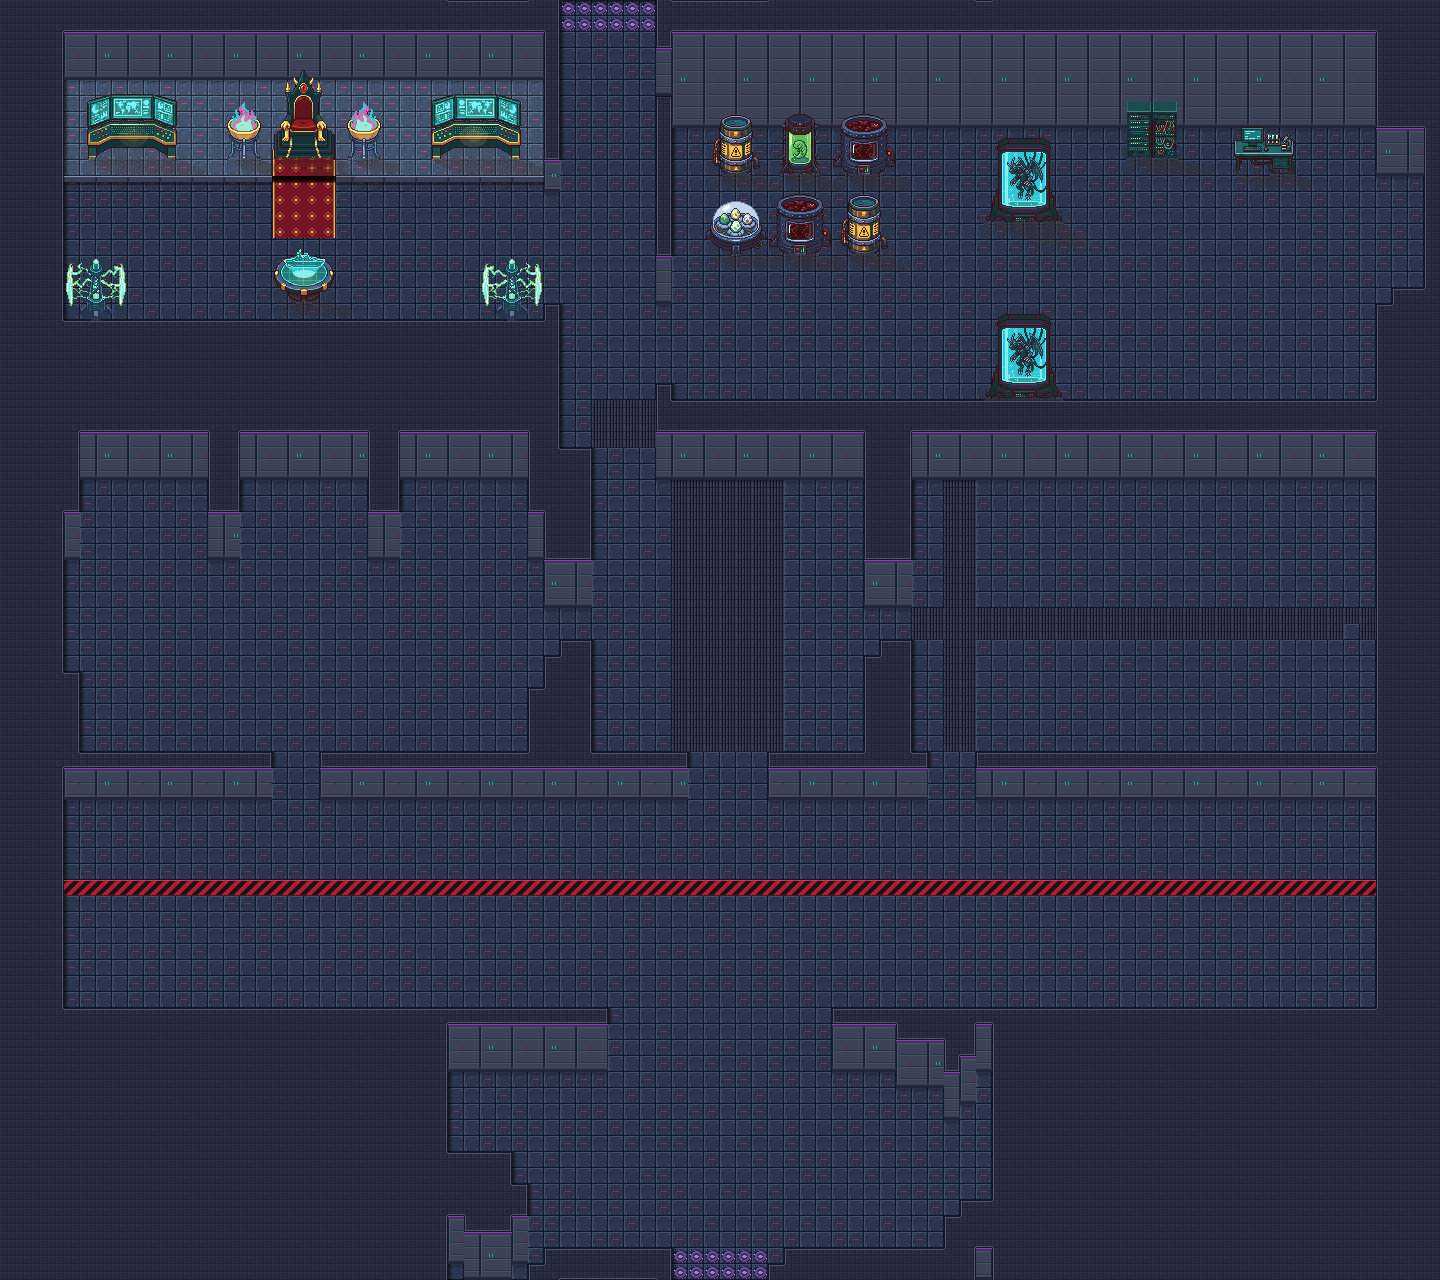
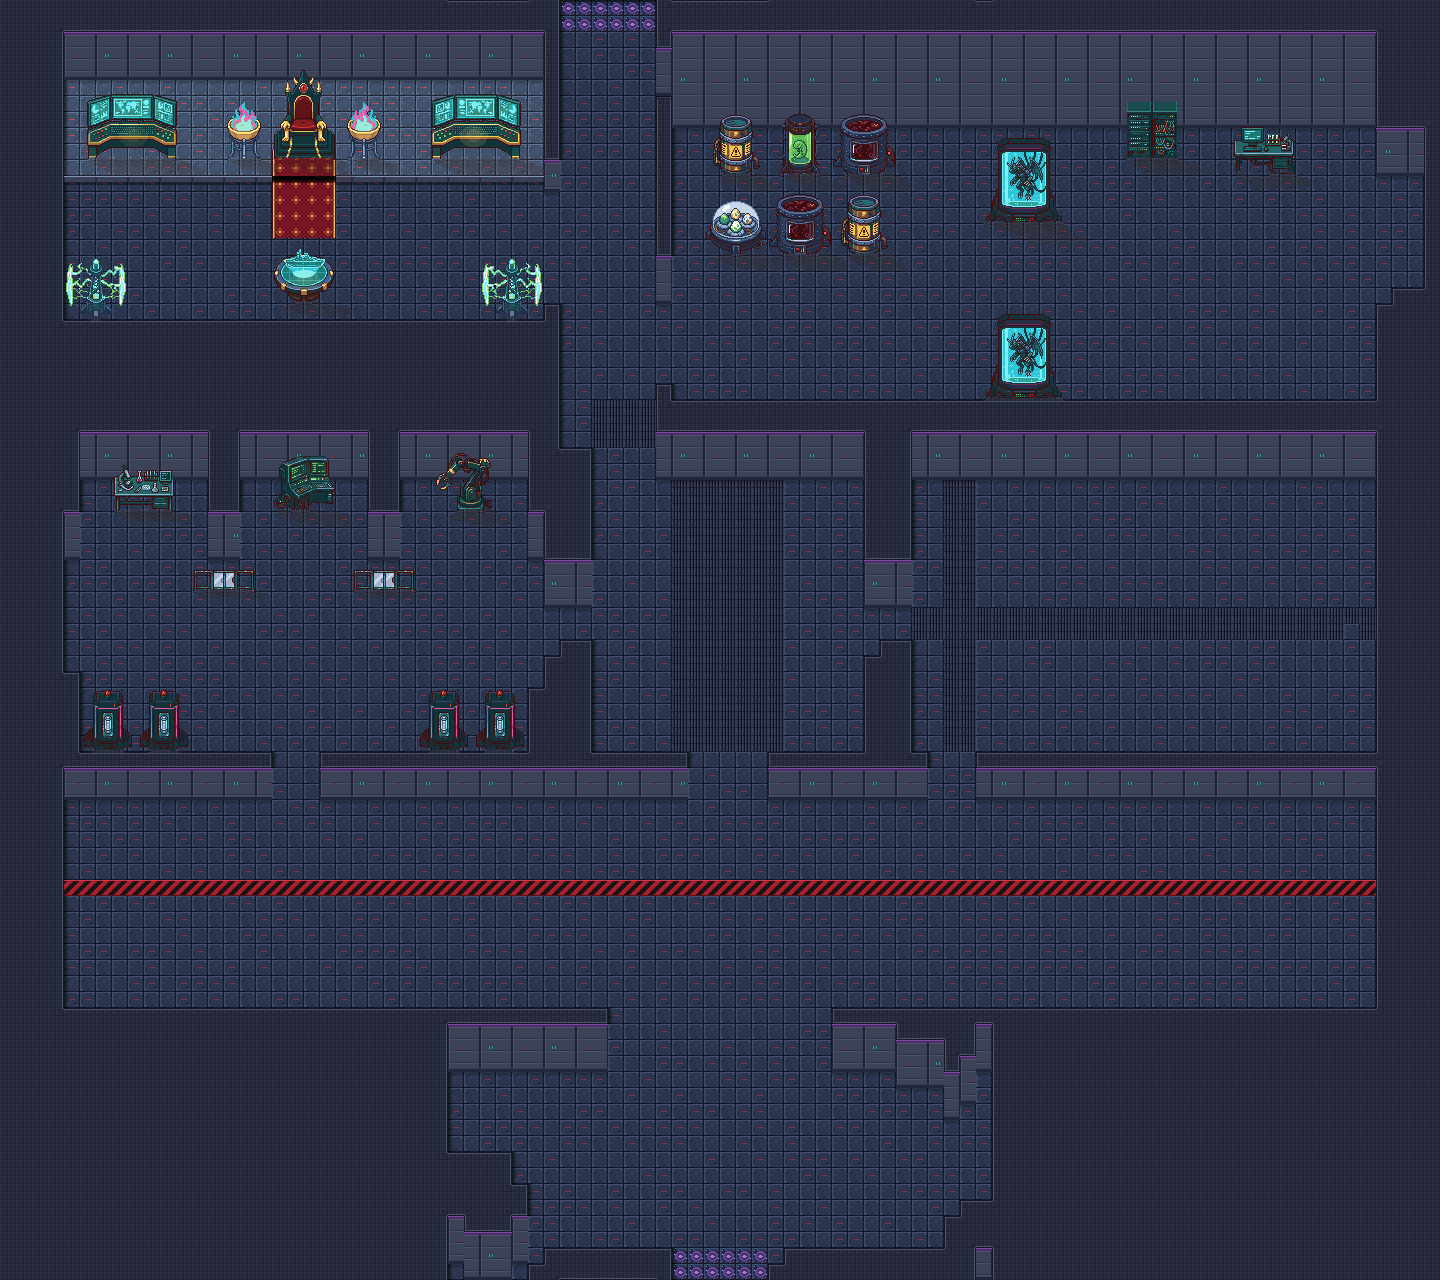
Karte 26: zweites Labor Mitte links - Labortisch, Konsole, Roboterarm in den Nischen, Gelaender mit Glastuer, dunkle Kammern (PixelLab k26_kammer)
Claude-Session: https://claude.ai/code/session_01SaoYHKhnro4LFcPJqjaPsq

diff --git a/tools/karte26_objekte.py b/tools/karte26_objekte.py
@@ -51,6 +51,12 @@ LABOR = (                                                        # Brutlabor obe
     + [(SERVER, 9, {'px': 72 * T}), (LABTISCH, 10, {'px': 79 * T})]
 )
 
+LABOR2 = (                                                       # zweites Labor Mitte links (Nischen oben, Kammern unten), sparsam
+    [('kammer/12', 31, {'px': 9 * T}), ('kammer/02', 31, {'px': 19 * T}), ('kammer/06', 31, {'px': 29 * T})]
+    + [('kammer/01', 36, {'px': 14 * T}), ('kammer/01', 36, {'px': 24 * T})]       # Gelaender mit Glastuer zwischen den Nischen
+    + [('kammer/00', 46, {'px': int(x * T), 'anim': 'lampe'}) for x in (6.75, 10.25, 27.75, 31.25)]   # dunkle Kammern in den Ecken (Vorlage)
+)
+
 
 def main():
     lay = json.load(open(os.path.join(KARTE, 'layout.json')))
@@ -61,7 +67,7 @@ def main():
         os.makedirs(os.path.dirname(ziel), exist_ok=True)
         shutil.copy(os.path.join(ROOT, 'assets', 'objekte', quelle), ziel)
     objekte, cache = [], {}
-    for (name, fy, opt) in THRONSAAL + LABOR:
+    for (name, fy, opt) in THRONSAAL + LABOR + LABOR2:
         opt = dict(opt)
         spiegeln = opt.pop('spiegeln', False)
         key = (name, spiegeln)

diff --git a/tools/pixellab_objekte.py b/tools/pixellab_objekte.py
@@ -1898,6 +1898,11 @@ OBJEKTGRUPPEN_K21 = {   # Karte 21 (Digi-Egg Valley), Stil wie Karte 20 / Karte 
         'horned beaked head and folded jagged wings, its body tangled in many black cables and tubes plugged into it, the '
         'creature looks faded and murky behind the turquoise liquid, wide dark machine base with small green lights, ' + FR14,
     ]},
+    'k26_kammer': {'size': 64, 'items': [
+        'dark black containment chamber machine with glowing purple edge lines, a small red warning light on top, a narrow '
+        'glass window showing a glowing silver data core cylinder inside, heavy angular black base with vents, ' + FR14,
+        'low metal laboratory railing segment of dark steel with a small sliding glass door in the middle, ' + FR14,
+    ]},
     'k24_schrein': {'size': 64, 'items': [
         'dark emperor throne made of jagged black obsidian crystal spikes with deep purple and crimson highlights, a high '
         'pointed back, standing on a small stepped dark stone dais, ' + FR14,
